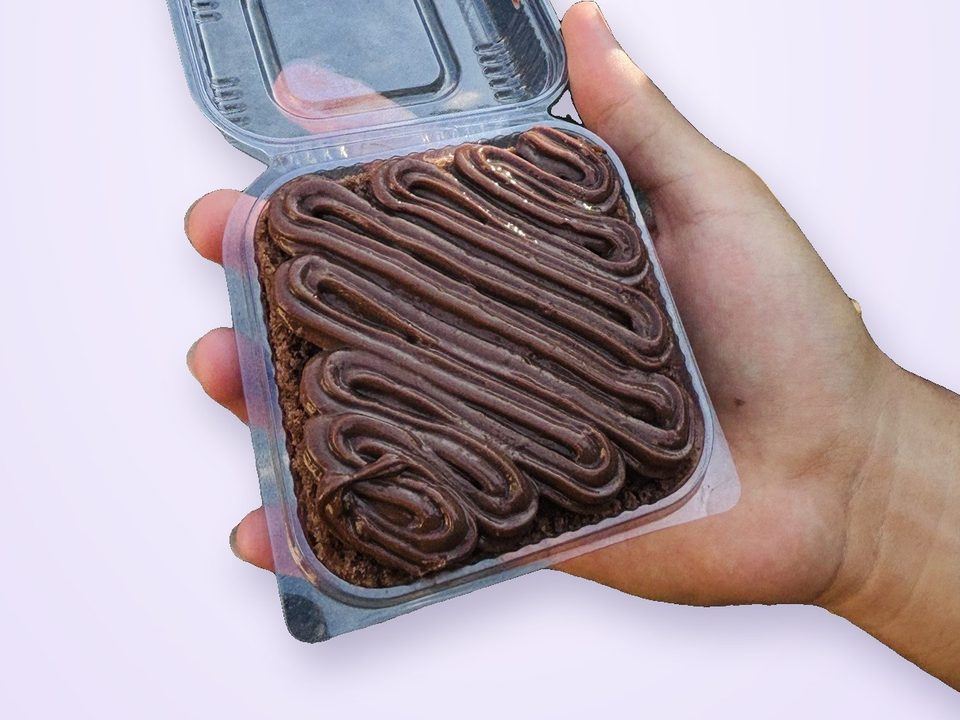
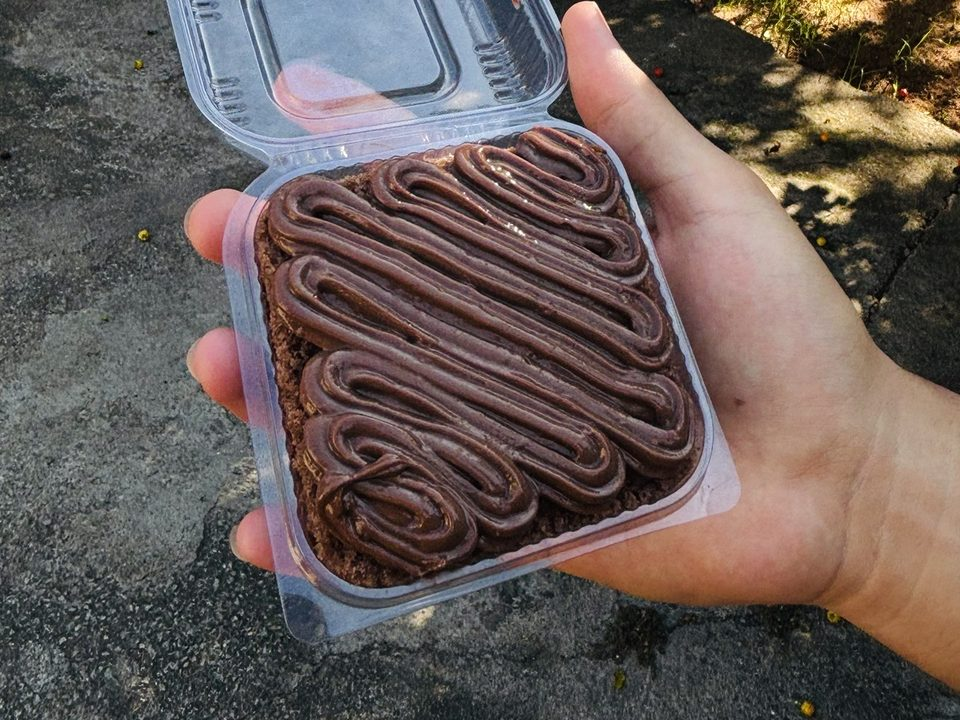
Desfaz a troca de fundo das fotos (volta às fotos reais originais)
Claude-Session: https://claude.ai/code/session_018LpWb9CWqbCqmGg4cnmTw6

diff --git a/brigadeiros/index.html b/brigadeiros/index.html
@@ -48,7 +48,7 @@
         <p class="apoio">A caixinha com a corujinha na tampa leva 4 brigadeiros. Pega a sortida ou escolhe os sabores que vão dentro.</p>
         <p class="preco"><span class="preco-grande">R$ 12</span> <span class="preco-nota">a caixinha</span></p>
       </div>
-      <div class="foto"><img src="/assets/img/brigadeiros.jpg?v=3" alt="Caixinha aberta com 4 brigadeiros" width="960" height="720"></div>
+      <div class="foto"><img src="/assets/img/brigadeiros.jpg?v=2" alt="Caixinha aberta com 4 brigadeiros" width="960" height="720"></div>
     </div>
   </section>
 
@@ -57,7 +57,7 @@
       <h2>Pronta ou do seu jeito</h2>
       <ul class="sabores">
         <li class="item sabor" data-nome="Caixinha sortida (4 brigadeiros)" data-preco="12">
-          <img class="sabor-foto" src="/assets/img/brigadeiros.jpg?v=3" alt="" width="88" height="88" loading="lazy">
+          <img class="sabor-foto" src="/assets/img/brigadeiros.jpg?v=2" alt="" width="88" height="88" loading="lazy">
           <div>
             <h3>Caixinha sortida</h3>
             <p class="sabor-nota">2 de chocolate, 1 de morango e 1 de chocolate branco</p>
@@ -81,7 +81,7 @@
         </div>
         <ul class="itens montador-sabores">
           <li class="item montador-sabor" data-sabor="chocolate">
-            <img class="sabor-foto" src="/assets/img/sabores/brigadeiro-chocolate.jpg?v=3" alt="" width="88" height="88" loading="lazy">
+            <img class="sabor-foto" src="/assets/img/sabores/brigadeiro-chocolate.jpg?v=2" alt="" width="88" height="88" loading="lazy">
             <span>Chocolate</span>
             <span class="contador">
               <button type="button" data-menos aria-label="Tirar 1 brigadeiro de chocolate">−</button>
@@ -90,7 +90,7 @@
             </span>
           </li>
           <li class="item montador-sabor" data-sabor="morango">
-            <img class="sabor-foto" src="/assets/img/sabores/brigadeiro-morango.jpg?v=3" alt="" width="88" height="88" loading="lazy">
+            <img class="sabor-foto" src="/assets/img/sabores/brigadeiro-morango.jpg?v=2" alt="" width="88" height="88" loading="lazy">
             <span>Morango</span>
             <span class="contador">
               <button type="button" data-menos aria-label="Tirar 1 brigadeiro de morango">−</button>
@@ -99,7 +99,7 @@
             </span>
           </li>
           <li class="item montador-sabor" data-sabor="chocolate branco">
-            <img class="sabor-foto" src="/assets/img/sabores/brigadeiro-chocolate-branco.jpg?v=3" alt="" width="88" height="88" loading="lazy">
+            <img class="sabor-foto" src="/assets/img/sabores/brigadeiro-chocolate-branco.jpg?v=2" alt="" width="88" height="88" loading="lazy">
             <span>Chocolate branco</span>
             <span class="contador">
               <button type="button" data-menos aria-label="Tirar 1 brigadeiro de chocolate branco">−</button>
@@ -154,7 +154,7 @@
 <a class="flutuante" href="https://wa.me/5537998765591?text=Oi%20Maju%21%20Vim%20pelo%20site%20e%20quero%20fazer%20uma%20encomenda." target="_blank" rel="noopener" aria-label="Pedir pelo WhatsApp">
   <svg viewBox="0 0 24 24" width="28" height="28" aria-hidden="true"><path fill="currentColor" d="M12 2a10 10 0 0 0-8.6 15.1L2 22l5-1.3A10 10 0 1 0 12 2zm0 18.2a8.2 8.2 0 0 1-4.2-1.2l-.3-.2-3 .8.8-2.9-.2-.3A8.2 8.2 0 1 1 12 20.2zm4.5-6.1c-.2-.1-1.5-.7-1.7-.8s-.4-.1-.6.1-.7.8-.8 1-.3.2-.5.1a6.7 6.7 0 0 1-3.3-2.9c-.3-.4.3-.4.7-1.3.1-.2 0-.3 0-.4l-.8-1.8c-.2-.5-.4-.4-.6-.4h-.5a1 1 0 0 0-.7.3 3 3 0 0 0-.9 2.2 5.2 5.2 0 0 0 1.1 2.7 11.8 11.8 0 0 0 4.5 4c1.7.7 2.3.8 3.2.6a2.6 2.6 0 0 0 1.7-1.2 2.1 2.1 0 0 0 .1-1.2c0-.1-.2-.2-.4-.3z"/></svg>
 </a>
-<script src="/assets/pedido.js?v=5" defer></script>
+<script src="/assets/pedido.js?v=4" defer></script>
 <script src="/assets/voltar.js?v=3" defer></script>
 </body>
 </html>

diff --git a/bolos/index.html b/bolos/index.html
@@ -48,7 +48,7 @@
         <p class="apoio">Fatia generosa no potinho quadrado com tampa. Escolhe os sabores e quantos de cada.</p>
         <p class="preco"><span class="preco-grande">R$ 12</span> <span class="preco-nota">o potinho</span></p>
       </div>
-      <div class="foto"><img src="/assets/img/bolos.jpg?v=3" alt="Bolo de fatia de chocolate no potinho" width="960" height="720"></div>
+      <div class="foto"><img src="/assets/img/bolos.jpg?v=2" alt="Bolo de fatia de chocolate no potinho" width="960" height="720"></div>
     </div>
   </section>
 
@@ -57,7 +57,7 @@
       <h2>Escolhe os sabores</h2>
       <ul class="sabores">
         <li class="item sabor" data-nome="Bolo de fatia chocolate com maracujá" data-preco="12">
-          <img class="sabor-foto" src="/assets/img/sabores/bolo-chocolate-maracuja.jpg?v=3" alt="" width="88" height="88" loading="lazy">
+          <img class="sabor-foto" src="/assets/img/sabores/bolo-chocolate-maracuja.jpg?v=2" alt="" width="88" height="88" loading="lazy">
           <div>
             <h3>Chocolate com maracujá</h3>
             <p class="preco"><span>R$ 12</span> <span class="preco-nota">o potinho</span></p>
@@ -69,7 +69,7 @@
           </span>
         </li>
         <li class="item sabor" data-nome="Bolo de fatia ninho com maracujá" data-preco="12">
-          <img class="sabor-foto" src="/assets/img/sabores/bolo-ninho-maracuja.jpg?v=3" alt="" width="88" height="88" loading="lazy">
+          <img class="sabor-foto" src="/assets/img/sabores/bolo-ninho-maracuja.jpg?v=2" alt="" width="88" height="88" loading="lazy">
           <div>
             <h3>Ninho com maracujá</h3>
             <p class="preco"><span>R$ 12</span> <span class="preco-nota">o potinho</span></p>
@@ -81,7 +81,7 @@
           </span>
         </li>
         <li class="item sabor" data-nome="Bolo de fatia chocolate puro" data-preco="12">
-          <img class="sabor-foto" src="/assets/img/sabores/bolo-chocolate.jpg?v=3" alt="" width="88" height="88" loading="lazy">
+          <img class="sabor-foto" src="/assets/img/sabores/bolo-chocolate.jpg?v=2" alt="" width="88" height="88" loading="lazy">
           <div>
             <h3>Chocolate puro</h3>
             <p class="preco"><span>R$ 12</span> <span class="preco-nota">o potinho</span></p>
@@ -93,7 +93,7 @@
           </span>
         </li>
         <li class="item sabor" data-nome="Bolo de fatia ninho puro" data-preco="12">
-          <img class="sabor-foto" src="/assets/img/sabores/bolo-ninho.jpg?v=3" alt="" width="88" height="88" loading="lazy">
+          <img class="sabor-foto" src="/assets/img/sabores/bolo-ninho.jpg?v=2" alt="" width="88" height="88" loading="lazy">
           <div>
             <h3>Ninho puro</h3>
             <p class="preco"><span>R$ 12</span> <span class="preco-nota">o potinho</span></p>
@@ -156,7 +156,7 @@
 <a class="flutuante" href="https://wa.me/5537998765591?text=Oi%20Maju%21%20Vim%20pelo%20site%20e%20quero%20fazer%20uma%20encomenda." target="_blank" rel="noopener" aria-label="Pedir pelo WhatsApp">
   <svg viewBox="0 0 24 24" width="28" height="28" aria-hidden="true"><path fill="currentColor" d="M12 2a10 10 0 0 0-8.6 15.1L2 22l5-1.3A10 10 0 1 0 12 2zm0 18.2a8.2 8.2 0 0 1-4.2-1.2l-.3-.2-3 .8.8-2.9-.2-.3A8.2 8.2 0 1 1 12 20.2zm4.5-6.1c-.2-.1-1.5-.7-1.7-.8s-.4-.1-.6.1-.7.8-.8 1-.3.2-.5.1a6.7 6.7 0 0 1-3.3-2.9c-.3-.4.3-.4.7-1.3.1-.2 0-.3 0-.4l-.8-1.8c-.2-.5-.4-.4-.6-.4h-.5a1 1 0 0 0-.7.3 3 3 0 0 0-.9 2.2 5.2 5.2 0 0 0 1.1 2.7 11.8 11.8 0 0 0 4.5 4c1.7.7 2.3.8 3.2.6a2.6 2.6 0 0 0 1.7-1.2 2.1 2.1 0 0 0 .1-1.2c0-.1-.2-.2-.4-.3z"/></svg>
 </a>
-<script src="/assets/pedido.js?v=5" defer></script>
+<script src="/assets/pedido.js?v=4" defer></script>
 <script src="/assets/voltar.js?v=3" defer></script>
 </body>
 </html>

diff --git a/geladinhos/index.html b/geladinhos/index.html
@@ -48,7 +48,7 @@
         <p class="apoio">Pra quando o calor aperta. Escolhe os sabores e guarda uns no freezer.</p>
         <p class="preco"><span class="preco-grande">R$ 5</span> <span class="preco-nota">cada</span></p>
       </div>
-      <div class="foto"><img src="/assets/img/geladinhos.jpg?v=3" alt="Geladinhos de morango, maracujá, chocolate e pedacinho do céu" width="960" height="720"></div>
+      <div class="foto"><img src="/assets/img/geladinhos.jpg?v=2" alt="Geladinhos de morango, maracujá, chocolate e pedacinho do céu" width="960" height="720"></div>
     </div>
   </section>
 
@@ -57,7 +57,7 @@
       <h2>Escolhe os sabores</h2>
       <ul class="sabores">
         <li class="item sabor" data-nome="Geladinho de chocolate" data-preco="5">
-          <img class="sabor-foto" src="/assets/img/sabores/geladinho-chocolate.jpg?v=3" alt="" width="88" height="88" loading="lazy">
+          <img class="sabor-foto" src="/assets/img/sabores/geladinho-chocolate.jpg?v=2" alt="" width="88" height="88" loading="lazy">
           <div>
             <h3>Chocolate</h3>
             <p class="preco"><span>R$ 5</span> <span class="preco-nota">cada</span></p>
@@ -69,7 +69,7 @@
           </span>
         </li>
         <li class="item sabor" data-nome="Geladinho de morango" data-preco="5">
-          <img class="sabor-foto" src="/assets/img/sabores/geladinho-morango.jpg?v=3" alt="" width="88" height="88" loading="lazy">
+          <img class="sabor-foto" src="/assets/img/sabores/geladinho-morango.jpg?v=2" alt="" width="88" height="88" loading="lazy">
           <div>
             <h3>Morango</h3>
             <p class="preco"><span>R$ 5</span> <span class="preco-nota">cada</span></p>
@@ -81,7 +81,7 @@
           </span>
         </li>
         <li class="item sabor" data-nome="Geladinho de maracujá" data-preco="5">
-          <img class="sabor-foto" src="/assets/img/sabores/geladinho-maracuja.jpg?v=3" alt="" width="88" height="88" loading="lazy">
+          <img class="sabor-foto" src="/assets/img/sabores/geladinho-maracuja.jpg?v=2" alt="" width="88" height="88" loading="lazy">
           <div>
             <h3>Maracujá</h3>
             <p class="preco"><span>R$ 5</span> <span class="preco-nota">cada</span></p>
@@ -93,7 +93,7 @@
           </span>
         </li>
         <li class="item sabor" data-nome="Geladinho de pedacinho do céu" data-preco="5">
-          <img class="sabor-foto" src="/assets/img/sabores/geladinho-pedacinho-do-ceu.jpg?v=3" alt="" width="88" height="88" loading="lazy">
+          <img class="sabor-foto" src="/assets/img/sabores/geladinho-pedacinho-do-ceu.jpg?v=2" alt="" width="88" height="88" loading="lazy">
           <div>
             <h3>Pedacinho do céu</h3>
             <p class="preco"><span>R$ 5</span> <span class="preco-nota">cada</span></p>
@@ -144,7 +144,7 @@
 <a class="flutuante" href="https://wa.me/5537998765591?text=Oi%20Maju%21%20Vim%20pelo%20site%20e%20quero%20fazer%20uma%20encomenda." target="_blank" rel="noopener" aria-label="Pedir pelo WhatsApp">
   <svg viewBox="0 0 24 24" width="28" height="28" aria-hidden="true"><path fill="currentColor" d="M12 2a10 10 0 0 0-8.6 15.1L2 22l5-1.3A10 10 0 1 0 12 2zm0 18.2a8.2 8.2 0 0 1-4.2-1.2l-.3-.2-3 .8.8-2.9-.2-.3A8.2 8.2 0 1 1 12 20.2zm4.5-6.1c-.2-.1-1.5-.7-1.7-.8s-.4-.1-.6.1-.7.8-.8 1-.3.2-.5.1a6.7 6.7 0 0 1-3.3-2.9c-.3-.4.3-.4.7-1.3.1-.2 0-.3 0-.4l-.8-1.8c-.2-.5-.4-.4-.6-.4h-.5a1 1 0 0 0-.7.3 3 3 0 0 0-.9 2.2 5.2 5.2 0 0 0 1.1 2.7 11.8 11.8 0 0 0 4.5 4c1.7.7 2.3.8 3.2.6a2.6 2.6 0 0 0 1.7-1.2 2.1 2.1 0 0 0 .1-1.2c0-.1-.2-.2-.4-.3z"/></svg>
 </a>
-<script src="/assets/pedido.js?v=5" defer></script>
+<script src="/assets/pedido.js?v=4" defer></script>
 <script src="/assets/voltar.js?v=3" defer></script>
 </body>
 </html>

diff --git a/index.html b/index.html
@@ -64,28 +64,28 @@
       <h2>Escolhe o seu <em>(ou todos).</em></h2>
       <div class="grade-produtos">
         <article class="cartao cartao-claro produto">
-          <div class="foto"><img src="/assets/img/bolos.jpg?v=3" alt="Bolo de fatia de chocolate no potinho" width="960" height="720" loading="lazy"></div>
+          <div class="foto"><img src="/assets/img/bolos.jpg?v=2" alt="Bolo de fatia de chocolate no potinho" width="960" height="720" loading="lazy"></div>
           <p class="rotulo">Bolos</p>
           <h3>Bolo de fatia <em>no potinho</em></h3>
           <p class="preco"><span class="preco-grande">R$ 12</span> <span class="preco-nota">o potinho</span></p>
           <a class="botao" href="/bolos/">Ver sabores →</a>
         </article>
         <article class="cartao cartao-rosa produto">
-          <div class="foto"><img src="/assets/img/brigadeiros.jpg?v=3" alt="Caixinha aberta com 4 brigadeiros" width="960" height="720" loading="lazy"></div>
+          <div class="foto"><img src="/assets/img/brigadeiros.jpg?v=2" alt="Caixinha aberta com 4 brigadeiros" width="960" height="720" loading="lazy"></div>
           <p class="rotulo">Brigadeiros</p>
           <h3>Caixinha com <em>4 brigadeiros</em></h3>
           <p class="preco"><span class="preco-grande">R$ 12</span> <span class="preco-nota">a caixinha</span></p>
           <a class="botao" href="/brigadeiros/">Montar caixinha →</a>
         </article>
         <article class="cartao cartao-claro produto">
-          <div class="foto"><img src="/assets/img/tortas.jpg?v=3" alt="Tortinha de limão no pote redondo" width="960" height="720" loading="lazy"></div>
+          <div class="foto"><img src="/assets/img/tortas.jpg?v=2" alt="Tortinha de limão no pote redondo" width="960" height="720" loading="lazy"></div>
           <p class="rotulo">Tortas</p>
           <h3>Tortinha <em>individual</em></h3>
           <p class="preco"><span class="preco-grande">R$ 10</span> <span class="preco-nota">a tortinha</span></p>
           <a class="botao" href="/tortas/">Ver sabores →</a>
         </article>
         <article class="cartao cartao-escuro produto">
-          <div class="foto"><img src="/assets/img/geladinhos.jpg?v=3" alt="Geladinhos de morango, maracujá, chocolate e pedacinho do céu" width="960" height="720" loading="lazy"></div>
+          <div class="foto"><img src="/assets/img/geladinhos.jpg?v=2" alt="Geladinhos de morango, maracujá, chocolate e pedacinho do céu" width="960" height="720" loading="lazy"></div>
           <p class="rotulo">Geladinhos</p>
           <h3>Geladinho <em>cremoso</em></h3>
           <p class="preco"><span class="preco-grande">R$ 5</span> <span class="preco-nota">cada</span></p>

diff --git a/tortas/index.html b/tortas/index.html
@@ -48,7 +48,7 @@
         <p class="apoio">Uma inteira só sua, no pote redondo. Escolhe os sabores e quantas de cada.</p>
         <p class="preco"><span class="preco-grande">R$ 10</span> <span class="preco-nota">a tortinha</span></p>
       </div>
-      <div class="foto"><img src="/assets/img/tortas.jpg?v=3" alt="Tortinha de limão no pote redondo" width="960" height="720"></div>
+      <div class="foto"><img src="/assets/img/tortas.jpg?v=2" alt="Tortinha de limão no pote redondo" width="960" height="720"></div>
     </div>
   </section>
 
@@ -57,7 +57,7 @@
       <h2>Escolhe os sabores</h2>
       <ul class="sabores">
         <li class="item sabor" data-nome="Tortinha de limão" data-preco="10">
-          <img class="sabor-foto" src="/assets/img/sabores/tortinha-limao.jpg?v=3" alt="" width="88" height="88" loading="lazy">
+          <img class="sabor-foto" src="/assets/img/sabores/tortinha-limao.jpg?v=2" alt="" width="88" height="88" loading="lazy">
           <div>
             <h3>Limão</h3>
             <p class="preco"><span>R$ 10</span> <span class="preco-nota">a tortinha</span></p>
@@ -69,7 +69,7 @@
           </span>
         </li>
         <li class="item sabor" data-nome="Tortinha de maracujá" data-preco="10">
-          <img class="sabor-foto" src="/assets/img/sabores/tortinha-maracuja.jpg?v=3" alt="" width="88" height="88" loading="lazy">
+          <img class="sabor-foto" src="/assets/img/sabores/tortinha-maracuja.jpg?v=2" alt="" width="88" height="88" loading="lazy">
           <div>
             <h3>Maracujá</h3>
             <p class="preco"><span>R$ 10</span> <span class="preco-nota">a tortinha</span></p>
@@ -120,7 +120,7 @@
 <a class="flutuante" href="https://wa.me/5537998765591?text=Oi%20Maju%21%20Vim%20pelo%20site%20e%20quero%20fazer%20uma%20encomenda." target="_blank" rel="noopener" aria-label="Pedir pelo WhatsApp">
   <svg viewBox="0 0 24 24" width="28" height="28" aria-hidden="true"><path fill="currentColor" d="M12 2a10 10 0 0 0-8.6 15.1L2 22l5-1.3A10 10 0 1 0 12 2zm0 18.2a8.2 8.2 0 0 1-4.2-1.2l-.3-.2-3 .8.8-2.9-.2-.3A8.2 8.2 0 1 1 12 20.2zm4.5-6.1c-.2-.1-1.5-.7-1.7-.8s-.4-.1-.6.1-.7.8-.8 1-.3.2-.5.1a6.7 6.7 0 0 1-3.3-2.9c-.3-.4.3-.4.7-1.3.1-.2 0-.3 0-.4l-.8-1.8c-.2-.5-.4-.4-.6-.4h-.5a1 1 0 0 0-.7.3 3 3 0 0 0-.9 2.2 5.2 5.2 0 0 0 1.1 2.7 11.8 11.8 0 0 0 4.5 4c1.7.7 2.3.8 3.2.6a2.6 2.6 0 0 0 1.7-1.2 2.1 2.1 0 0 0 .1-1.2c0-.1-.2-.2-.4-.3z"/></svg>
 </a>
-<script src="/assets/pedido.js?v=5" defer></script>
+<script src="/assets/pedido.js?v=4" defer></script>
 <script src="/assets/voltar.js?v=3" defer></script>
 </body>
 </html>

diff --git a/design/index.html b/design/index.html
@@ -122,9 +122,9 @@
       <div>
         <h2>Cartões</h2>
         <div class="grade-cartoes">
-          <article class="cartao cartao-claro"><div class="foto"><img src="/assets/img/bolos.jpg?v=3" alt="Bolo de fatia de chocolate no potinho" width="960" height="720" loading="lazy"></div><p class="rotulo">Claro</p><h3>Cartão <em>claro</em></h3></article>
-          <article class="cartao cartao-rosa"><div class="foto"><img src="/assets/img/brigadeiros.jpg?v=3" alt="Caixinha aberta com 4 brigadeiros" width="960" height="720" loading="lazy"></div><p class="rotulo">Rosa</p><h3>Cartão <em>rosa</em></h3></article>
-          <article class="cartao cartao-escuro"><div class="foto"><img src="/assets/img/geladinhos.jpg?v=3" alt="Geladinhos de morango, maracujá, chocolate e pedacinho do céu" width="960" height="720" loading="lazy"></div><p class="rotulo">Escuro</p><h3>Cartão <em>escuro</em></h3><p class="preco"><span class="preco-grande">R$ 5</span></p></article>
+          <article class="cartao cartao-claro"><div class="foto"><img src="/assets/img/bolos.jpg?v=2" alt="Bolo de fatia de chocolate no potinho" width="960" height="720" loading="lazy"></div><p class="rotulo">Claro</p><h3>Cartão <em>claro</em></h3></article>
+          <article class="cartao cartao-rosa"><div class="foto"><img src="/assets/img/brigadeiros.jpg?v=2" alt="Caixinha aberta com 4 brigadeiros" width="960" height="720" loading="lazy"></div><p class="rotulo">Rosa</p><h3>Cartão <em>rosa</em></h3></article>
+          <article class="cartao cartao-escuro"><div class="foto"><img src="/assets/img/geladinhos.jpg?v=2" alt="Geladinhos de morango, maracujá, chocolate e pedacinho do céu" width="960" height="720" loading="lazy"></div><p class="rotulo">Escuro</p><h3>Cartão <em>escuro</em></h3><p class="preco"><span class="preco-grande">R$ 5</span></p></article>
         </div>
       </div>
 

diff --git a/assets/pedido.js b/assets/pedido.js
@@ -40,7 +40,7 @@
       li.dataset.preco = pedido[nome].preco;
       var img = document.createElement('img');
       img.className = 'sabor-foto';
-      img.src = '/assets/img/brigadeiros.jpg?v=3';
+      img.src = '/assets/img/brigadeiros.jpg?v=2';
       img.alt = ''; img.width = 88; img.height = 88;
       var texto = document.createElement('div');
       var h3 = document.createElement('h3');

diff --git a/README.md b/README.md
@@ -26,7 +26,7 @@ Tudo em `assets/estilo.css`: os tokens ficam no começo (`--cor-*`, `--t-*`, `--
 
 ## Fotos e logo
 
-Tudo em `assets/img/`. As fotos dos doces são reais (fotos da Maju, outubro de 2026), com o fundo trocado por um lilás claro da marca (recorte automático com rembg, fora do site):
+Tudo em `assets/img/`. As fotos dos doces são reais (fotos da Maju, outubro de 2026):
 
 - `bolos.jpg`, `brigadeiros.jpg`, `tortas.jpg`, `geladinhos.jpg`: foto grande de cada página e dos cartões do Início (960x720). A dos geladinhos junta os 4 sabores.
 - `sabores/`: miniatura de cada sabor (240x240): bolos de chocolate, chocolate com maracujá, ninho e ninho com maracujá; brigadeiros de chocolate, morango e chocolate branco; tortinhas de limão e maracujá; geladinhos de chocolate, morango, maracujá e pedacinho do céu.
